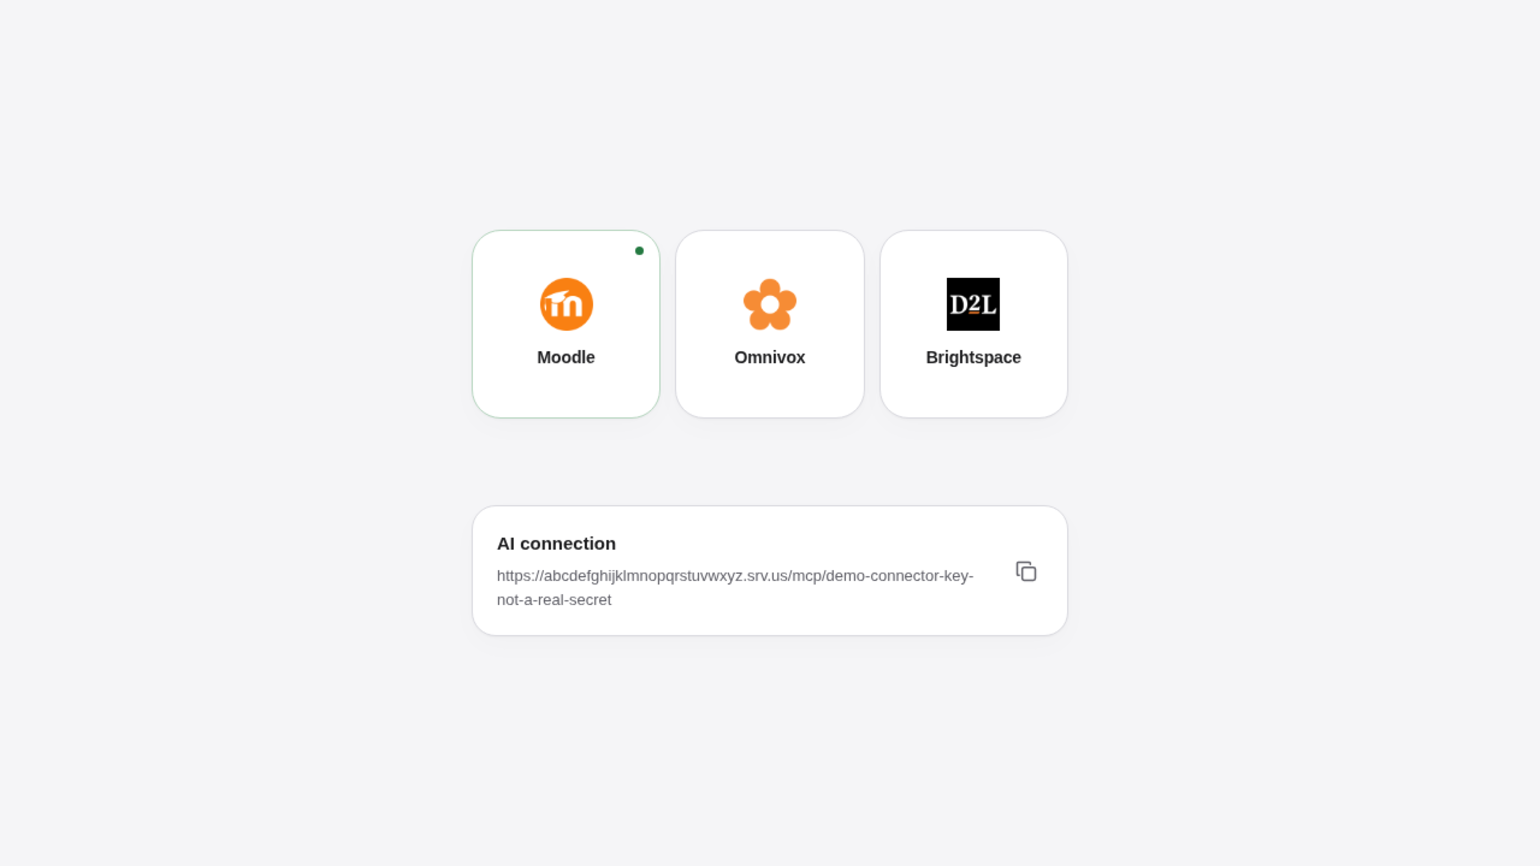
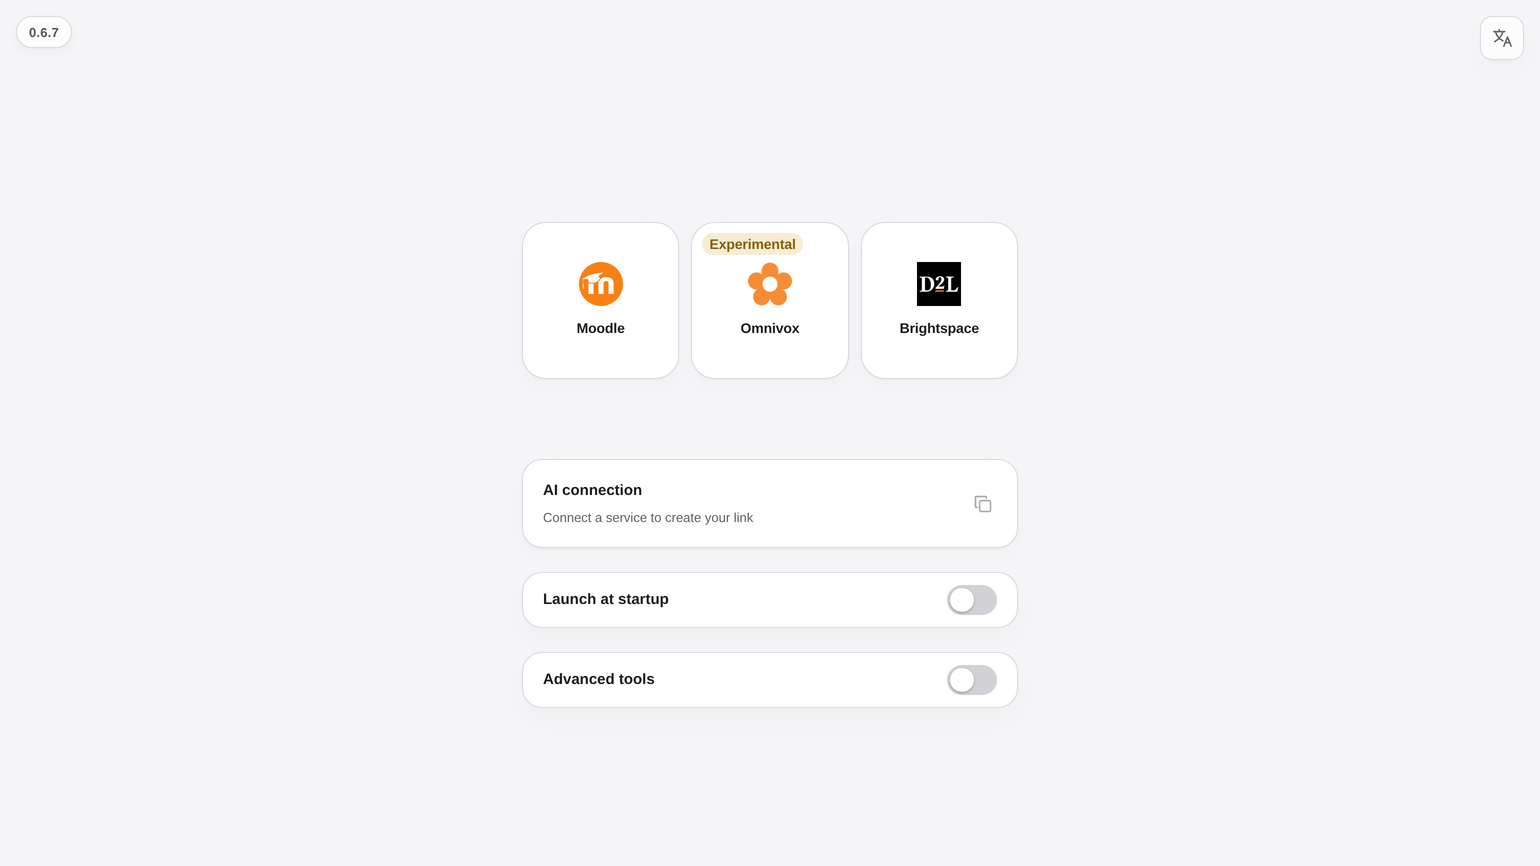
docs: rewrite README as a student guide with real UI captures
Lead with the benefit, then install, connect, copy the link, and add it
to Claude, ChatGPT or OpenCode. Screenshots are captured from the local
page at 2x and reduced. Technical detail stays in tools/GUIDE.md.

diff --git a/tools/test_readme.py b/tools/test_readme.py
@@ -1,0 +1,28 @@
+"""Student README contract: benefit, steps, captures, no social links."""
+import pathlib
+import re
+import unittest
+
+ROOT = pathlib.Path(__file__).resolve().parent.parent
+README = (ROOT / "README.md").read_text(encoding="utf-8")
+
+
+class ReadmeTests(unittest.TestCase):
+    def test_student_guide_has_a_benefit_and_ai_steps_without_social_links(self):
+        self.assertIn("without typing your school password into the chat", README)
+        for name in ("Claude", "ChatGPT", "OpenCode"):
+            self.assertIn(name, README)
+        self.assertIn("Omnivox is experimental", README)
+        self.assertIn("tools/GUIDE.md", README)
+        self.assertNotRegex(README, r"https?://(www\.)?(x|twitter)\.com")
+        for image in ("home.png", "moodle.png", "link.png", "omnivox.png"):
+            path = ROOT / "tools" / "screens" / image
+            self.assertTrue(path.is_file(), image)
+            self.assertGreater(path.stat().st_size, 1000)
+            self.assertIn(f"tools/screens/{image}", README)
+        self.assertTrue(re.search(r"Connect with browser", README))
+        self.assertNotIn("SPEC.md", README)
+
+
+if __name__ == "__main__":
+    unittest.main()

diff --git a/README.md b/README.md
@@ -2,19 +2,17 @@
 <p align="center">
   <img src="src/resources/assets/app-icon.png" width="72" alt="student-mcp tray icon">
 </p>
-<p align="center">Moodle, Omnivox and Brightspace in your MCP assistant.</p>
-
-<p align="center"><img src="tools/screens/home.png" width="100%" alt="Local configuration page with Moodle connected and a demo AI connection link" /></p>
+<p align="center">Ask your AI about your courses, deadlines, grades and files — without typing your school password into the chat.</p>
 
 ## Install
 
 ### Windows
 
-Download **[student-mcp-setup.exe](https://github.com/CloudDown/student-mcp/releases/latest/download/student-mcp-setup.exe)**.
+Download **[student-mcp-setup.exe](https://github.com/CloudDown/student-mcp/releases/latest/download/student-mcp-setup.exe)** and open it. Keep **Open student-mcp** selected.
 
 ### macOS
 
-Download **[student-mcp.dmg](https://github.com/CloudDown/student-mcp/releases/latest/download/student-mcp.dmg)**.
+Download **[student-mcp.dmg](https://github.com/CloudDown/student-mcp/releases/latest/download/student-mcp.dmg)**, open it, double-click **Install student-mcp**, then **Install and open**.
 
 ### Linux
 
@@ -22,44 +20,66 @@ Download **[student-mcp.dmg](https://github.com/CloudDown/student-mcp/releases/l
 curl -fsSL https://raw.githubusercontent.com/CloudDown/student-mcp/main/tools/packaging/install.sh | bash
 ```
 
-The installer adds student-mcp to your application launcher. The raw
-`student-mcp-linux-x64` / `student-mcp-linux-arm64` binaries are also available
-from the release page, but do not install a launcher by themselves.
+The installer adds student-mcp to the application menu. Windows or macOS may warn that the app is unsigned until publisher signatures are added; do not turn off those checks.
 
-Windows/macOS builds are not yet publisher-signed. [Details](tools/GUIDE.md#installation).
+## 1. Open student-mcp
 
-The local page shows the installed version and update-check status at the top left,
-opposite the language button. When a newer GitHub release is available, an update
-button takes its place. Click it to download and verify
-the update automatically. Linux updates in place and restarts; Windows/macOS open
-the official installer to finish installation. Connected accounts are preserved.
+Launch it from the Start menu, Applications, or your app launcher. A local page opens. Closing the tab leaves a tray icon; quit from there when you are done.
 
-<p align="center"><img src="tools/screens/omnivox.png" width="100%" alt="Omnivox browser sign-in on the local configuration page" /></p>
+<p align="center"><img src="tools/screens/home.png" width="100%" alt="student-mcp home: Moodle, Omnivox and Brightspace tiles, AI connection card, launch at startup and advanced tools" /></p>
 
-<table>
-  <tr>
-    <td width="33%" align="center"><img src="src/resources/assets/moodle-icon.png" width="48" alt="Moodle logo" /><br /><b>Moodle</b><br /><sub>Courses, deadlines, grades &amp; PDFs</sub></td>
-    <td width="33%" align="center"><img src="src/resources/assets/omnivox-icon.png" width="48" alt="Omnivox logo" /><br /><b>Omnivox</b><br /><sub>Léa &amp; MIO · Courses, grades, documents, calendar and messaging</sub></td>
-    <td width="33%" align="center"><img src="src/resources/assets/brightspace-icon.png" width="48" alt="Brightspace logo" /><br /><b>Brightspace</b><br /><sub>myCourses · Courses, content &amp; grades</sub></td>
-  </tr>
-</table>
+## 2. Connect your school
+
+Click **Moodle**, **Omnivox** or **Brightspace**. Enter your school address, then **Connect with browser**. Sign in on the school site, including MFA if asked. Only a token or a private browser profile is saved — not your password.
+
+If Chrome, Edge or Brave is already installed, that browser is used. A download is offered only if none is found, and only after you agree.
+
+<p align="center"><img src="tools/screens/moodle.png" width="100%" alt="Moodle connection page with school address and Connect with browser" /></p>
+
+When the page says you are connected, go back to the home screen.
+
+## 3. Copy your AI link
+
+Click **AI connection**, then the copy button next to the public link. Keep this computer awake and online. Do not put the link in a screenshot or a chat.
+
+<p align="center"><img src="tools/screens/link.png" width="100%" alt="Local and public AI connection links with copy buttons. Example URLs only, not a real token." /></p>
+
+## 4. Add the link to your assistant
+
+Paste the **complete** `https://…/mcp/…` link into the assistant’s MCP connector settings, not into a chat message.
+
+### Claude
+
+1. Open Claude → **Settings** → **Connectors** (wording can vary).
+2. Add a custom connector and paste the link.
+3. If Claude mentions OAuth, choose **Continue anyway**. This app has no OAuth.
+4. Ask: “What are my deadlines this week?”
+
+### ChatGPT
+
+1. Open ChatGPT → **Settings** → **Connectors** / **MCP** (available on plans that allow custom MCP).
+2. Add a connector and paste the same link.
+3. Start a new chat and ask about a course or a file.
+
+### OpenCode
+
+1. Open OpenCode settings and add an MCP server.
+2. For the public link, use the HTTP connector URL you copied.
+3. For a local assistant on this computer, you can instead point stdio at the installed binary (`student-mcp` with no arguments). Details: [tools/GUIDE.md](tools/GUIDE.md#3-local-ai-assistant).
+4. Ask your first question.
+
+You should be able to go from install to that question in a few minutes on Windows or macOS, with no terminal.
 
 ## Omnivox is experimental
 
-Léa and MIO work on some colleges and fail on others when the mobile page
-changes. The local app shows an **Experimental** badge. Tool replies include the
-same warning. If Omnivox returns a login page or unexpected HTML instead of
-data, student-mcp says the college page may have changed — use the official
-Omnivox site or app, then reconnect. Do not treat Omnivox answers as final
-without checking the portal.
+<p align="center"><img src="tools/screens/omnivox.png" width="100%" alt="Omnivox sign-in page with the Experimental label" /></p>
 
-Sign in on the local page → copy the link → add it to your assistant's **MCP connectors**.
-Keep the computer online. Closing the tab leaves a tray icon; quit from there or from the page.
+Léa and MIO work on some colleges and break when the mobile page changes. The app shows an **Experimental** badge. Tool replies include the same warning. If Omnivox returns a login page or unexpected HTML, student-mcp says the college page may have changed — use the official site or app, then reconnect. Do not treat Omnivox answers as final without checking the portal.
 
-Safari and Firefox can remain your default browser. School sign-in uses an installed
-Chromium-based browser, or downloads a dedicated Chrome for Testing automatically
-on first use. [Browser setup](tools/BROWSER-AUTH.md).
+## Privacy
 
-**v0.6.7:** Adds in-app update checks and verified downloads, plus application icons in desktop installers and the Linux application launcher. Includes curated Omnivox tools for Léa and MIO, improved document delivery and connection management, and more complete Moodle deadline reporting. Availability can vary by college and account permissions.
+School passwords are not stored. The public link is a secret: anyone who has it can use your enabled tools. The HTTPS relay (`srv.us`) can technically read traffic. Prefer the local link or stdio if you do not want that. [Privacy and relay](tools/GUIDE.md#4-automatic-public-link-for-web-ai).
 
-<p align="center"><a href="tools/GUIDE.md">Docs</a> · <a href="tools/GUIDE.md#4-automatic-public-link-for-web-ai">Privacy &amp; relay</a> · MIT code; <a href="src/services/moodle/catalog/LICENSE.md">GPL-3.0+ Moodle catalogue</a></p>
+Technical maintenance, packaging and signing: [tools/GUIDE.md](tools/GUIDE.md).
+
+MIT code; [GPL-3.0+ Moodle catalogue](src/services/moodle/catalog/LICENSE.md).
